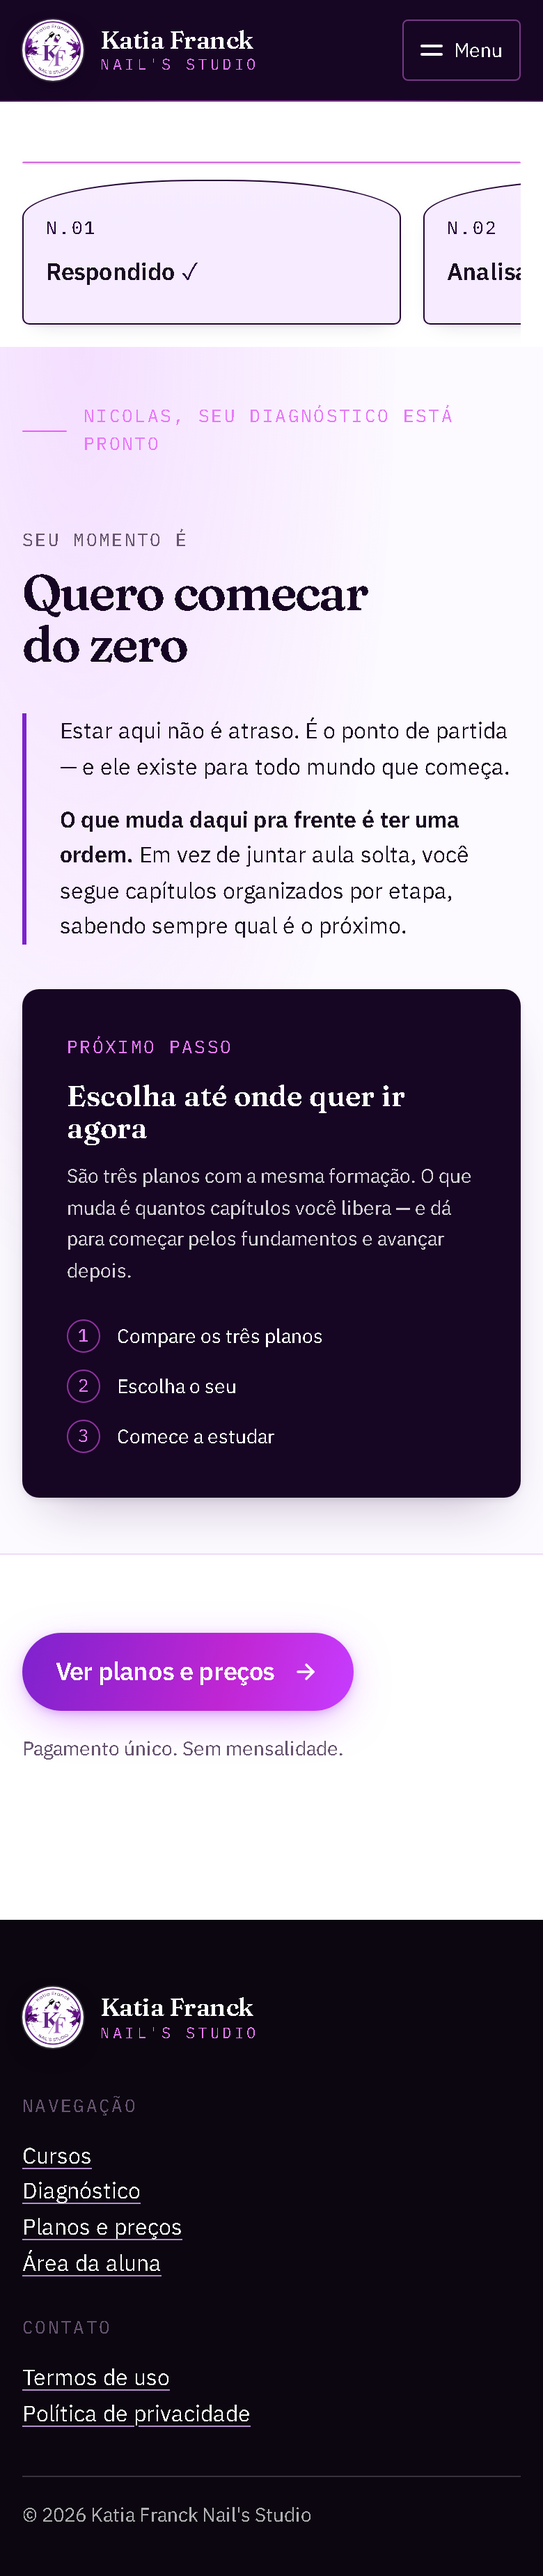
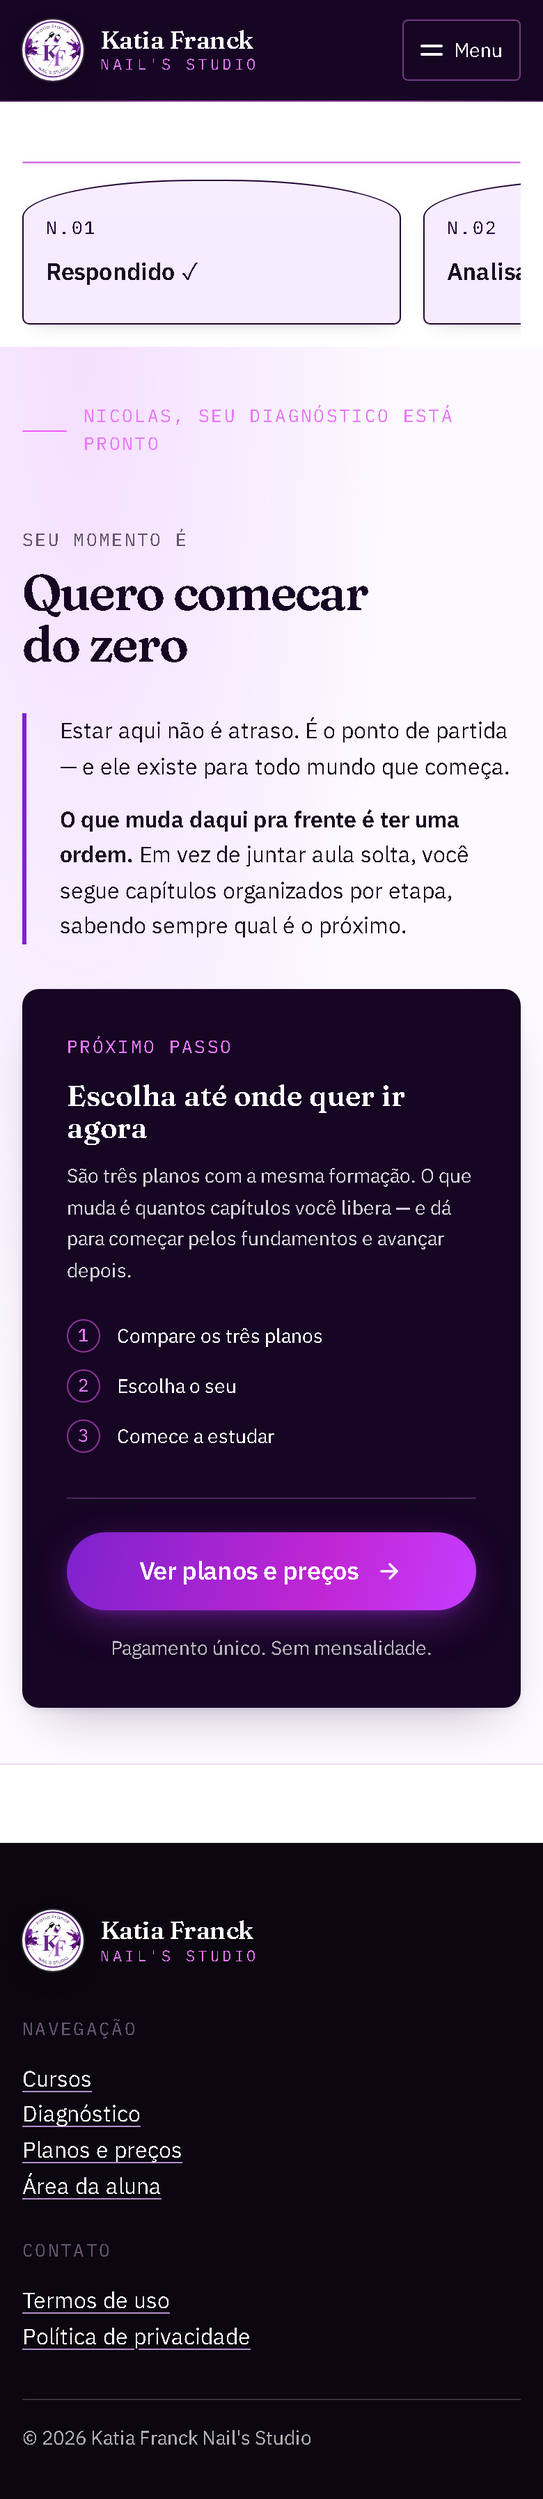
Capturas do funil completo na URL publica
Quiz, pergunta, resultado, planos, checkout e login -- desktop e celular,
capturados de https://painel-ead-3a7f.vercel.app.

diff --git a/d.tmp.html b/d.tmp.html
@@ -1,0 +1,1 @@
+<!DOCTYPE html><html lang="pt-BR" class="__variable_e4fce7 __variable_4cd417 __variable_308571"><head><meta charSet="utf-8"/><meta name="viewport" content="width=device-width, initial-scale=1"/><link rel="preload" as="image" imageSrcSet="/_next/image?url=%2Fmarca%2Fkatia-franck-nails-studio.png&amp;w=1920&amp;q=75 1x, /_next/image?url=%2Fmarca%2Fkatia-franck-nails-studio.png&amp;w=3840&amp;q=75 2x"/><link rel="stylesheet" href="/_next/static/css/08f25ed3b7eb06f3.css" data-precedence="next"/><link rel="stylesheet" href="/_next/static/css/720f3b03f21753fc.css" data-precedence="next"/><link rel="stylesheet" href="/_next/static/css/b6433111dd898c6b.css" data-precedence="next"/><link rel="preload" as="script" fetchPriority="low" href="/_next/static/chunks/webpack-749a20deaa92ad2e.js"/><script src="/_next/static/chunks/4bd1b696-f785427dddbba9fb.js" async=""></script><script src="/_next/static/chunks/1255-31f47ebe9b12c7e5.js" async=""></script><script src="/_next/static/chunks/main-app-5eb0d9c55a395822.js" async=""></script><script src="/_next/static/chunks/app/layout-ccb73117ea577e9f.js" async=""></script><script src="/_next/static/chunks/app/error-06ec08d53afa09bf.js" async=""></script><script src="/_next/static/chunks/2619-3c9e02e22d10480a.js" async=""></script><script src="/_next/static/chunks/1356-8ac2296275443024.js" async=""></script><script src="/_next/static/chunks/2749-ff2367bc1a431374.js" async=""></script><script src="/_next/static/chunks/app/diagnostico/page-fb5ee03f6cb49f4d.js" async=""></script><meta name="next-size-adjust" content=""/><meta name="theme-color" content="#170524"/><title>Diagnóstico · Katia Franck Nail&#x27;s Studio</title><meta name="description" content="Um diagnóstico curto para entender o seu momento na profissão."/><meta name="robots" content="noindex, nofollow"/><script src="/_next/static/chunks/polyfills-42372ed130431b0a.js" noModule=""></script></head><body><div hidden=""><!--$--><!--/$--></div><a class="skip-link" href="#conteudo">Ir para o conteúdo</a><header class="topo"><div class="page topo__interno"><a class="marca marca--padrao" href="/"><img alt="" width="1232" height="1232" decoding="async" data-nimg="1" class="marca__selo" style="color:transparent" srcSet="/_next/image?url=%2Fmarca%2Fkatia-franck-nails-studio.png&amp;w=1920&amp;q=75 1x, /_next/image?url=%2Fmarca%2Fkatia-franck-nails-studio.png&amp;w=3840&amp;q=75 2x" src="/_next/image?url=%2Fmarca%2Fkatia-franck-nails-studio.png&amp;w=3840&amp;q=75"/><span class="marca__nome"><span class="marca__nome-principal">Katia Franck</span><span class="marca__nome-apoio">Nail&#x27;s Studio</span></span></a><nav class="topo__nav" aria-label="Navegação principal"><a href="/#como-funciona">Como funciona</a><a href="/planos">Planos</a><a href="/entrar">Entrar</a><a class="botao botao--cta topo__cta" href="/#planos">Ver planos</a></nav><div class="nav-mobile"><button type="button" class="nav-mobile__botao" aria-expanded="false" aria-controls="_R_qlubvb_"><span class="nav-mobile__risos" aria-hidden="true" data-aberto="false"><span></span><span></span></span>Menu</button><div id="_R_qlubvb_" class="nav-mobile__painel" data-aberto="false" hidden=""><ul class="nav-mobile__lista"><li><a class="nav-mobile__link" href="/#como-funciona">Como funciona</a></li><li><a class="nav-mobile__link" href="/planos">Planos</a></li><li><a class="nav-mobile__link" href="/entrar">Entrar</a></li><li><a class="botao botao--primario nav-mobile__cta" href="/#planos">Ver planos</a></li></ul></div></div></div></header><main id="conteudo"><section class="page quiz-abertura"><div class="quiz-abertura__texto"><p class="capa__chapeu">Diagnóstico profissional</p><h1 class="quiz-abertura__titulo">Vamos entender o seu momento</h1><p class="quiz-abertura__apoio">São 7 perguntas rápidas. Não existe resposta certa — só a sua situação de hoje.</p><ul class="quiz-abertura__notas"><li>Leva poucos minutos.</li><li>Não existe resposta certa ou errada.</li><li>Você pode continuar de onde parou.</li></ul><button type="button" class="botao botao--primario botao--grande">Começar meu diagnóstico</button></div><div class="quiz-abertura__mostruario" aria-hidden="true"><div class="trilho mostruario"><div class="trilho__itens"><div class="palheta mostruario__item mostruario__item--atual"><span class="palheta__codigo mono">01 / <!-- -->7</span><span class="palheta__titulo">Seu momento</span><span class="palheta__meta">É isto que o diagnóstico identifica.</span></div><div class="palheta mostruario__item" data-state="locked"><span class="palheta__codigo mono">02</span><span class="palheta__titulo">Próximo passo</span></div></div></div></div></section></main><p class="page" style="padding-block-end:var(--space-6);font-size:var(--size-small);color:var(--text-secondary)"><a href="/privacidade">Como tratamos seus dados</a></p><!--$--><!--/$--><script src="/_next/static/chunks/webpack-749a20deaa92ad2e.js" id="_R_" async=""></script><script>(self.__next_f=self.__next_f||[]).push([0])</script><script>self.__next_f.push([1,"1:\"$Sreact.fragment\"\n2:I[7269,[\"7177\",\"static/chunks/app/layout-ccb73117ea577e9f.js\"],\"CapturaDeOrigem\"]\n3:I[9766,[],\"\"]\n4:I[960,[\"8039\",\"static/chunks/app/error-06ec08d53afa09bf.js\"],\"default\"]\n5:I[8924,[],\"\"]\n6:I[2619,[\"2619\",\"static/chunks/2619-3c9e02e22d10480a.js\",\"1356\",\"static/chunks/1356-8ac2296275443024.js\",\"2749\",\"static/chunks/2749-ff2367bc1a431374.js\",\"4609\",\"static/chunks/app/diagnostico/page-fb5ee03f6cb49f4d.js\"],\"\"]\n8:I[4431,[],\"OutletBoundary\"]\na:I[5278,[],\"AsyncMetadataOutlet\"]\nc:I[4431,[],\"ViewportBoundary\"]\ne:I[4431,[],\"MetadataBoundary\"]\nf:\"$Sreact.suspense\"\n11:I[7150,[],\"\"]\n:HL[\"/_next/static/media/26d4368bf94c0ec4-s.p.woff2\",\"font\",{\"crossOrigin\":\"\",\"type\":\"font/woff2\"}]\n:HL[\"/_next/static/media/2801417b65625cf5-s.p.woff2\",\"font\",{\"crossOrigin\":\"\",\"type\":\"font/woff2\"}]\n:HL[\"/_next/static/media/92eeb95d069020cc-s.p.woff2\",\"font\",{\"crossOrigin\":\"\",\"type\":\"font/woff2\"}]\n:HL[\"/_next/static/media/98e207f02528a563-s.p.woff2\",\"font\",{\"crossOrigin\":\"\",\"type\":\"font/woff2\"}]\n:HL[\"/_next/static/media/99dcf268bda04fe5-s.p.woff2\",\"font\",{\"crossOrigin\":\"\",\"type\":\"font/woff2\"}]\n:HL[\"/_next/static/media/b387097da7407747-s.p.woff2\",\"font\",{\"crossOrigin\":\"\",\"type\":\"font/woff2\"}]\n:HL[\"/_next/static/media/cb9f64d62d112b41-s.p.woff2\",\"font\",{\"crossOrigin\":\"\",\"type\":\"font/woff2\"}]\n:HL[\"/_next/static/media/d3ebbfd689654d3a-s.p.woff2\",\"font\",{\"crossOrigin\":\"\",\"type\":\"font/woff2\"}]\n:HL[\"/_next/static/css/08f25ed3b7eb06f3.css\",\"style\"]\n:HL[\"/_next/static/css/720f3b03f21753fc.css\",\"style\"]\n:HL[\"/_next/static/css/b6433111dd898c6b.css\",\"style\"]\n"])</script><script>self.__next_f.push([1,"0:{\"P\":null,\"b\":\"XK73PJiwUWLakXj8I2s3m\",\"p\":\"\",\"c\":[\"\",\"diagnostico\"],\"i\":false,\"f\":[[[\"\",{\"children\":[\"diagnostico\",{\"children\":[\"__PAGE__\",{}]}]},\"$undefined\",\"$undefined\",true],[\"\",[\"$\",\"$1\",\"c\",{\"children\":[[[\"$\",\"link\",\"0\",{\"rel\":\"stylesheet\",\"href\":\"/_next/static/css/08f25ed3b7eb06f3.css\",\"precedence\":\"next\",\"crossOrigin\":\"$undefined\",\"nonce\":\"$undefined\"}],[\"$\",\"link\",\"1\",{\"rel\":\"stylesheet\",\"href\":\"/_next/static/css/720f3b03f21753fc.css\",\"precedence\":\"next\",\"crossOrigin\":\"$undefined\",\"nonce\":\"$undefined\"}],[\"$\",\"link\",\"2\",{\"rel\":\"stylesheet\",\"href\":\"/_next/static/css/b6433111dd898c6b.css\",\"precedence\":\"next\",\"crossOrigin\":\"$undefined\",\"nonce\":\"$undefined\"}]],[\"$\",\"html\",null,{\"lang\":\"pt-BR\",\"className\":\"__variable_e4fce7 __variable_4cd417 __variable_308571\",\"children\":[\"$\",\"body\",null,{\"children\":[[\"$\",\"a\",null,{\"className\":\"skip-link\",\"href\":\"#conteudo\",\"children\":\"Ir para o conteúdo\"}],[\"$\",\"$L2\",null,{}],[\"$\",\"$L3\",null,{\"parallelRouterKey\":\"children\",\"error\":\"$4\",\"errorStyles\":[],\"errorScripts\":[],\"template\":[\"$\",\"$L5\",null,{}],\"templateStyles\":\"$undefined\",\"templateScripts\":\"$undefined\",\"notFound\":[[\"$\",\"main\",null,{\"id\":\"conteudo\",\"className\":\"page section\",\"style\":{\"maxWidth\":\"var(--width-text)\"},\"children\":[[\"$\",\"p\",null,{\"className\":\"eyebrow\",\"children\":\"404\"}],[\"$\",\"h1\",null,{\"children\":\"Esta página não existe\"}],[\"$\",\"p\",null,{\"className\":\"lead\",\"style\":{\"marginBlockStart\":\"var(--space-4)\"},\"children\":\"O endereço pode ter mudado, ou o conteúdo ainda não foi publicado.\"}],[\"$\",\"div\",null,{\"style\":{\"marginBlockStart\":\"var(--space-7)\"},\"children\":[\"$\",\"div\",null,{\"className\":\"trilho\",\"children\":[[\"$\",\"p\",null,{\"className\":\"visually-hidden\",\"children\":\"Para onde ir\"}],[\"$\",\"div\",null,{\"className\":\"trilho__itens\",\"children\":[[\"$\",\"$L6\",null,{\"className\":\"palheta\",\"data-state\":\"available\",\"href\":\"/\",\"children\":[null,[\"$\",\"span\",null,{\"className\":\"palheta__titulo\",\"children\":\"Início\"}],[\"$\",\"span\",null,{\"className\":\"palheta__meta\",\"children\":\"a página principal\"}],null,\"$undefined\"]}],[\"$\",\"$L6\",null,{\"className\":\"palheta\",\"data-state\":\"available\",\"href\":\"/planos\",\"children\":[null,[\"$\",\"span\",null,{\"className\":\"palheta__titulo\",\"children\":\"Planos\"}],[\"$\",\"span\",null,{\"className\":\"palheta__meta\",\"children\":\"os três pacotes e preços\"}],null,\"$undefined\"]}],[\"$\",\"$L6\",null,{\"className\":\"palheta palheta--acao\",\"data-state\":\"available\",\"href\":\"/planos\",\"children\":[null,[\"$\",\"span\",null,{\"className\":\"palheta__titulo\",\"children\":\"Ver planos\"}],null,null,\"$undefined\"]}]]}]]}]}],[\"$\",\"p\",null,{\"style\":{\"marginBlockStart\":\"var(--space-6)\"},\"children\":[\"$\",\"$L6\",null,{\"href\":\"/entrar\",\"children\":\"Entrar na área da aluna\"}]}]]}],[]],\"forbidden\":\"$undefined\",\"unauthorized\":\"$undefined\"}]]}]}]]}],{\"children\":[\"diagnostico\",[\"$\",\"$1\",\"c\",{\"children\":[null,[\"$\",\"$L3\",null,{\"parallelRouterKey\":\"children\",\"error\":\"$undefined\",\"errorStyles\":\"$undefined\",\"errorScripts\":\"$undefined\",\"template\":[\"$\",\"$L5\",null,{}],\"templateStyles\":\"$undefined\",\"templateScripts\":\"$undefined\",\"notFound\":\"$undefined\",\"forbidden\":\"$undefined\",\"unauthorized\":\"$undefined\"}]]}],{\"children\":[\"__PAGE__\",[\"$\",\"$1\",\"c\",{\"children\":[\"$L7\",null,[\"$\",\"$L8\",null,{\"children\":[\"$L9\",[\"$\",\"$La\",null,{\"promise\":\"$@b\"}]]}]]}],{},null,false]},null,false]},null,false],[\"$\",\"$1\",\"h\",{\"children\":[null,[[\"$\",\"$Lc\",null,{\"children\":\"$Ld\"}],[\"$\",\"meta\",null,{\"name\":\"next-size-adjust\",\"content\":\"\"}]],[\"$\",\"$Le\",null,{\"children\":[\"$\",\"div\",null,{\"hidden\":true,\"children\":[\"$\",\"$f\",null,{\"fallback\":null,\"children\":\"$L10\"}]}]}]]}],false]],\"m\":\"$undefined\",\"G\":[\"$11\",[]],\"s\":false,\"S\":false}\n"])</script><script>self.__next_f.push([1,"d:[[\"$\",\"meta\",\"0\",{\"charSet\":\"utf-8\"}],[\"$\",\"meta\",\"1\",{\"name\":\"viewport\",\"content\":\"width=device-width, initial-scale=1\"}],[\"$\",\"meta\",\"2\",{\"name\":\"theme-color\",\"content\":\"#170524\"}]]\n9:null\nb:{\"metadata\":[[\"$\",\"title\",\"0\",{\"children\":\"Diagnóstico · Katia Franck Nail's Studio\"}],[\"$\",\"meta\",\"1\",{\"name\":\"description\",\"content\":\"Um diagnóstico curto para entender o seu momento na profissão.\"}],[\"$\",\"meta\",\"2\",{\"name\":\"robots\",\"content\":\"noindex, nofollow\"}]],\"error\":null,\"digest\":\"$undefined\"}\n10:\"$b:metadata\"\n"])</script><script>self.__next_f.push([1,"13:I[2749,[\"2619\",\"static/chunks/2619-3c9e02e22d10480a.js\",\"1356\",\"static/chunks/1356-8ac2296275443024.js\",\"2749\",\"static/chunks/2749-ff2367bc1a431374.js\",\"4609\",\"static/chunks/app/diagnostico/page-fb5ee03f6cb49f4d.js\"],\"QuizForm\"]\n"])</script><script>self.__next_f.push([1,"7:[\"$L12\",[\"$\",\"main\",null,{\"id\":\"conteudo\",\"children\":[\"$\",\"$L13\",null,{\"quizSlug\":\"diagnostico\",\"perguntas\":[{\"id\":\"1b4f6c77-5795-4e39-a3dd-ef329dfc5fbe\",\"prompt\":\"Qual dessas opções mais combina com o seu momento atual?\",\"helpText\":null,\"type\":\"single\",\"required\":true,\"minSelections\":1,\"maxSelections\":null,\"opcoes\":[{\"id\":\"736b4bfb-a796-4424-8cf6-bed1818b5c3b\",\"label\":\"Nunca trabalhei com unhas e quero começar do zero\",\"value\":\"nunca-trabalhei\",\"helpText\":null},{\"id\":\"cdb2fcf4-6270-4680-8bcd-c174eb466e59\",\"label\":\"Faço minhas unhas ou as de pessoas próximas\",\"value\":\"faco-para-proximos\",\"helpText\":null},{\"id\":\"d441cc08-7573-4aea-9675-2e7dba6fd7f1\",\"label\":\"Já trabalho como manicure tradicional\",\"value\":\"manicure-tradicional\",\"helpText\":null},{\"id\":\"57ba3d69-4362-4fea-a461-60e5d00d3752\",\"label\":\"Já trabalho como nail designer e quero me aperfeiçoar\",\"value\":\"nail-designer\",\"helpText\":null},{\"id\":\"3bd4b999-f858-4118-b5dd-ad0ea034adc9\",\"label\":\"Já trabalhei na área e quero voltar\",\"value\":\"quero-voltar\",\"helpText\":null}]},{\"id\":\"e447a644-74e5-4593-9c2c-fa4f4bb1d8f7\",\"prompt\":\"O que você mais deseja conquistar com essa profissão?\",\"helpText\":null,\"type\":\"single\",\"required\":true,\"minSelections\":1,\"maxSelections\":null,\"opcoes\":[{\"id\":\"e521071d-e442-4f6e-b862-07be99e76fce\",\"label\":\"Ter uma renda extra\",\"value\":\"renda-extra\",\"helpText\":null},{\"id\":\"a9b94dee-244e-40c4-abec-25a2671e6998\",\"label\":\"Transformar a manicure na minha principal profissão\",\"value\":\"profissao-principal\",\"helpText\":null},{\"id\":\"f3ff5a97-025d-4d1b-b1eb-0e1bb5935760\",\"label\":\"Melhorar minha técnica e atender com mais confiança\",\"value\":\"tecnica-confianca\",\"helpText\":null},{\"id\":\"facf2748-0b51-4e20-a41c-e606544ff059\",\"label\":\"Aumentar meu preço e atrair mais clientes\",\"value\":\"preco-clientes\",\"helpText\":null},{\"id\":\"df144366-0dc5-4724-8709-278e6c222488\",\"label\":\"Abrir ou organizar meu próprio espaço\",\"value\":\"proprio-espaco\",\"helpText\":null},{\"id\":\"7a60c800-cc7c-483b-a2a9-4cd763706ef4\",\"label\":\"Aprender por realização pessoal\",\"value\":\"realizacao-pessoal\",\"helpText\":null}]},{\"id\":\"b5965182-e37a-4914-9f32-e71a36cdd4c2\",\"prompt\":\"Qual é a sua maior dificuldade hoje?\",\"helpText\":null,\"type\":\"single\",\"required\":true,\"minSelections\":1,\"maxSelections\":null,\"opcoes\":[{\"id\":\"7b2bc63d-f1d3-4c81-9a9c-4f8fde8ac91d\",\"label\":\"Não sei por onde começar\",\"value\":\"por-onde-comecar\",\"helpText\":null},{\"id\":\"521336b1-7a1f-4a5b-8ba1-704a51c82651\",\"label\":\"Tenho medo de não conseguir aprender\",\"value\":\"medo-de-nao-aprender\",\"helpText\":null},{\"id\":\"44c11208-28d4-4460-91ac-6d5b153e2340\",\"label\":\"Não sei quais materiais comprar\",\"value\":\"quais-materiais\",\"helpText\":null},{\"id\":\"c574a5ac-df1b-4296-9d4e-d82ee4247f21\",\"label\":\"Tenho dificuldade com técnica e acabamento\",\"value\":\"tecnica-acabamento\",\"helpText\":null},{\"id\":\"65c39acf-3239-4466-801d-878b20f96d19\",\"label\":\"Quero aprender técnicas mais atuais\",\"value\":\"tecnicas-atuais\",\"helpText\":null},{\"id\":\"e912fa8c-ae3f-4fb5-8bea-2c21bc5398b8\",\"label\":\"Não sei quanto cobrar\",\"value\":\"quanto-cobrar\",\"helpText\":null},{\"id\":\"09b6cd20-fc91-4f24-b5b0-a62e4776ed1c\",\"label\":\"Tenho dificuldade para conseguir clientes\",\"value\":\"conseguir-clientes\",\"helpText\":null},{\"id\":\"aa537a6c-b8d3-436a-bba9-144ec3912ce6\",\"label\":\"Não consigo organizar agenda, materiais e finanças\",\"value\":\"organizacao\",\"helpText\":null}]},{\"id\":\"3d5c1b04-e778-41dc-ac08-094ceb208898\",\"prompt\":\"O que você tem mais interesse em aprender?\",\"helpText\":\"Pode marcar mais de uma.\",\"type\":\"multiple\",\"required\":true,\"minSelections\":1,\"maxSelections\":3,\"opcoes\":[{\"id\":\"a25645d8-7967-4f7f-af54-9c258611d8e8\",\"label\":\"Fundamentos para começar\",\"value\":\"fundamentos\",\"helpText\":null},{\"id\":\"60c408d7-5fd9-45a1-9815-f4eca0367e8e\",\"label\":\"Melhorar técnica e acabamento\",\"value\":\"melhorar-tecnica\",\"helpText\":null},{\"id\":\"14115c62-41f6-4d4d-a8ac-0ecb11d35159\",\"label\":\"Técnicas modernas\",\"value\":\"tecnicas-modernas\",\"helpText\":null},{\"id\":\"39324932-810b-411e-88d2-8196c26c327f\",\"label\":\"Decorações\",\"value\":\"decoracoes\",\"helpText\":null},{\"id\":\"2437785b-0fd1-422b-87b5-2d5c6da8eecd\",\"label\":\"Atendimento e experiência da cliente\",\"value\":\"atendimento\",\"helpText\":null},{\"id\":\"90bb5b81-5cbb-4575-9d8d-be90bcba14d6\",\"label\":\"Preços e organização\",\"value\":\"precos-organizacao\",\"helpText\":null},{\"id\":\"8ae1c5d6-c366-41f6-9c22-0df2b3282c32\",\"label\":\"Divulgação e captação de clientes\",\"value\":\"divulgacao\",\"helpText\":null},{\"id\":\"f857c510-e154-42ea-afba-62e5b504b133\",\"label\":\"Quero conhecer uma formação completa\",\"value\":\"formacao-completa\",\"helpText\":null}]},{\"id\":\"445c9a26-9c5c-4a75-b3aa-4e4b579cd592\",\"prompt\":\"Quanto tempo você conseguiria reservar para estudar e praticar por semana?\",\"helpText\":null,\"type\":\"single\",\"required\":true,\"minSelections\":1,\"maxSelections\":null,\"opcoes\":[{\"id\":\"316abb22-15b1-4222-a3fb-0b52dd111410\",\"label\":\"Menos de 1 hora\",\"value\":\"menos-1h\",\"helpText\":null},{\"id\":\"16491497-55d7-42bd-81ad-b805f22600be\",\"label\":\"De 1 a 2 horas\",\"value\":\"1-2h\",\"helpText\":null},{\"id\":\"7ab278d2-e50b-4b8e-a566-d2c9ef53bbeb\",\"label\":\"De 3 a 5 horas\",\"value\":\"3-5h\",\"helpText\":null},{\"id\":\"b59791d4-9d0f-46a6-bd02-970d162af333\",\"label\":\"Mais de 5 horas\",\"value\":\"mais-5h\",\"helpText\":null},{\"id\":\"32e2f40e-d03b-449c-b522-1b2f70aca492\",\"label\":\"Minha rotina varia muito\",\"value\":\"varia\",\"helpText\":null}]},{\"id\":\"84ab8ced-bc87-42db-a0f9-3d28c675c62a\",\"prompt\":\"Quando você gostaria de começar?\",\"helpText\":null,\"type\":\"single\",\"required\":true,\"minSelections\":1,\"maxSelections\":null,\"opcoes\":[{\"id\":\"e6c4fa95-4a1f-4521-baaf-3f8821263738\",\"label\":\"Quero começar agora\",\"value\":\"agora\",\"helpText\":null},{\"id\":\"6768328a-48dc-46f5-8763-e850b48a9b42\",\"label\":\"Nos próximos 30 dias\",\"value\":\"30-dias\",\"helpText\":null},{\"id\":\"62c84758-dcab-4ee1-8df5-722fcda93adc\",\"label\":\"Nos próximos 3 meses\",\"value\":\"3-meses\",\"helpText\":null},{\"id\":\"745e37fd-2fda-4835-8d2a-63bbe3d286e3\",\"label\":\"Ainda estou pesquisando\",\"value\":\"pesquisando\",\"helpText\":null}]},{\"id\":\"f037ee87-14ca-48a7-9f6f-06dc2f0e724b\",\"prompt\":\"Qual estrutura você possui atualmente?\",\"helpText\":null,\"type\":\"single\",\"required\":true,\"minSelections\":1,\"maxSelections\":null,\"opcoes\":[{\"id\":\"8dfbb6b9-aea3-4e41-bce9-72a4444a7b79\",\"label\":\"Ainda não tenho materiais\",\"value\":\"sem-materiais\",\"helpText\":null},{\"id\":\"3da3bd61-ca07-42e0-99d7-9728fb5e0822\",\"label\":\"Tenho apenas alguns materiais básicos\",\"value\":\"materiais-basicos\",\"helpText\":null},{\"id\":\"82c34365-0f88-4c98-ae60-f1ba435148d0\",\"label\":\"Já possuo materiais para trabalhar\",\"value\":\"materiais-completos\",\"helpText\":null},{\"id\":\"421c9944-4364-42a4-8403-a302f983fa39\",\"label\":\"Já tenho um espaço de atendimento\",\"value\":\"espaco-proprio\",\"helpText\":null},{\"id\":\"51d682bc-d417-432e-9c74-0a13a270bca0\",\"label\":\"Atendo em salão ou espaço de outra pessoa\",\"value\":\"espaco-terceiro\",\"helpText\":null},{\"id\":\"46a0afe4-b104-4b9e-8534-2a374fcb767c\",\"label\":\"Prefiro explicar minha situação pelo WhatsApp\",\"value\":\"explicar-whatsapp\",\"helpText\":null}]}],\"introTitulo\":\"Vamos entender o seu momento\",\"introTexto\":\"São 7 perguntas rápidas. Não existe resposta certa — só a sua situação de hoje.\",\"consentText\":\"Autorizo o contato pelo WhatsApp e o tratamento dos meus dados conforme a política de privacidade.\",\"coleta\":{\"email\":true,\"cidade\":true,\"estado\":true,\"apenasPrimeiroNome\":true}}]}],\"$L14\"]\n"])</script><script>self.__next_f.push([1,"14:[\"$\",\"p\",null,{\"className\":\"page\",\"style\":{\"paddingBlockEnd\":\"var(--space-6)\",\"fontSize\":\"var(--size-small)\",\"color\":\"var(--text-secondary)\"},\"children\":[\"$\",\"$L6\",null,{\"href\":\"/privacidade\",\"children\":\"Como tratamos seus dados\"}]}]\n"])</script><script>self.__next_f.push([1,"15:I[1356,[\"2619\",\"static/chunks/2619-3c9e02e22d10480a.js\",\"1356\",\"static/chunks/1356-8ac2296275443024.js\",\"2749\",\"static/chunks/2749-ff2367bc1a431374.js\",\"4609\",\"static/chunks/app/diagnostico/page-fb5ee03f6cb49f4d.js\"],\"Image\"]\n16:I[6519,[\"2619\",\"static/chunks/2619-3c9e02e22d10480a.js\",\"1356\",\"static/chunks/1356-8ac2296275443024.js\",\"2749\",\"static/chunks/2749-ff2367bc1a431374.js\",\"4609\",\"static/chunks/app/diagnostico/page-fb5ee03f6cb49f4d.js\"],\"NavMobile\"]\n"])</script><script>self.__next_f.push([1,"12:[\"$\",\"header\",null,{\"className\":\"topo\",\"children\":[\"$\",\"div\",null,{\"className\":\"page topo__interno\",\"children\":[[\"$\",\"$L6\",null,{\"className\":\"marca marca--padrao\",\"href\":\"/\",\"children\":[[\"$\",\"$L15\",null,{\"className\":\"marca__selo\",\"src\":\"/marca/katia-franck-nails-studio.png\",\"alt\":\"\",\"width\":1232,\"height\":1232,\"priority\":true}],[\"$\",\"span\",null,{\"className\":\"marca__nome\",\"children\":[[\"$\",\"span\",null,{\"className\":\"marca__nome-principal\",\"children\":\"Katia Franck\"}],[\"$\",\"span\",null,{\"className\":\"marca__nome-apoio\",\"children\":\"Nail's Studio\"}]]}]]}],[\"$\",\"nav\",null,{\"className\":\"topo__nav\",\"aria-label\":\"Navegação principal\",\"children\":[[\"$\",\"$L6\",null,{\"href\":\"/#como-funciona\",\"children\":\"Como funciona\"}],null,[\"$\",\"$L6\",null,{\"href\":\"/planos\",\"children\":\"Planos\"}],[\"$\",\"$L6\",null,{\"href\":\"/entrar\",\"children\":\"Entrar\"}],[\"$\",\"$L6\",null,{\"className\":\"botao botao--cta topo__cta\",\"href\":\"/#planos\",\"children\":\"Ver planos\"}]]}],[\"$\",\"$L16\",null,{\"itens\":[{\"href\":\"/#como-funciona\",\"rotulo\":\"Como funciona\"},{\"href\":\"/planos\",\"rotulo\":\"Planos\"},{\"href\":\"/entrar\",\"rotulo\":\"Entrar\"},{\"href\":\"/#planos\",\"rotulo\":\"Ver planos\",\"cta\":true}]}]]}]}]\n"])</script></body></html>
